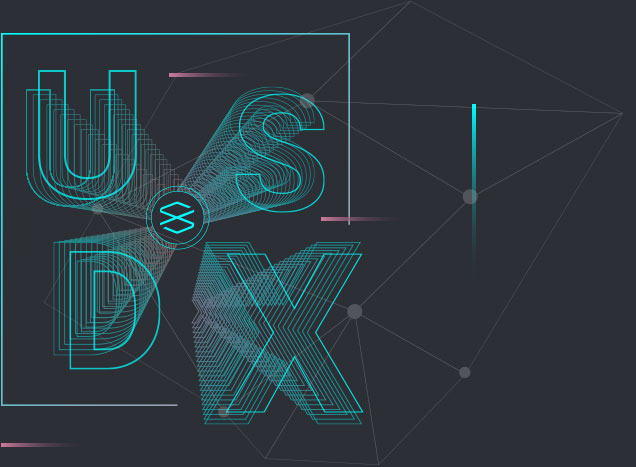
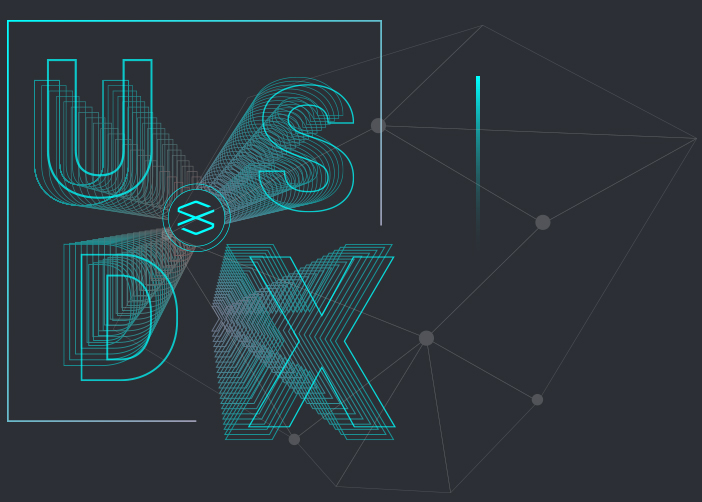
fat-score

diff --git a/src/styles/main.scss b/src/styles/main.scss
@@ -128,7 +128,7 @@ body,html{background: #272a2f;}
 }
 .homeBox{
     .icon-USDX{
-        font-size: 45px;
+        font-size: 60px;
     }
     .icon-team1{
         font-size: 26px;
@@ -149,10 +149,10 @@ body,html{background: #272a2f;}
     width:960px;
     height:468px;
     margin: 0 auto;
-    background-image: url("../images/index_bg.png");
+    background-image: url("../images/index_bg.jpg");
     background-repeat: no-repeat;
     background-position: 80px top;
-    background-size: 600px auto;
+    background-size: 645px auto;
     h2{
         font-size: 60px;
         color: #fff;
@@ -162,12 +162,12 @@ body,html{background: #272a2f;}
         font-size: 30px;
         line-height: 36px;
         color: #fff;
-        margin-top: 12px;
+        margin-top: 30px;
     }
 }
 .indexContent{
     padding-left: 546px;
-    padding-top: 97px;
+    padding-top: 70px;
 }
 .whitePaper{
     font-size: 13px;
@@ -179,7 +179,7 @@ body,html{background: #272a2f;}
     height: 42px;
     text-align: center;
     line-height: 42px;
-    margin-top: 22px;
+    margin-top: 30px;
 }
 
 .adviserBox{
@@ -737,8 +737,6 @@ body,html{background: #272a2f;}
 }
 .bottomLogo{text-align: center;}
 .bottomLogo .icon-USDX-logo{
-    //display: block;
-    //margin: 0 auto;
     font-size: 70px;
     color: #fff;
     text-align: center;
